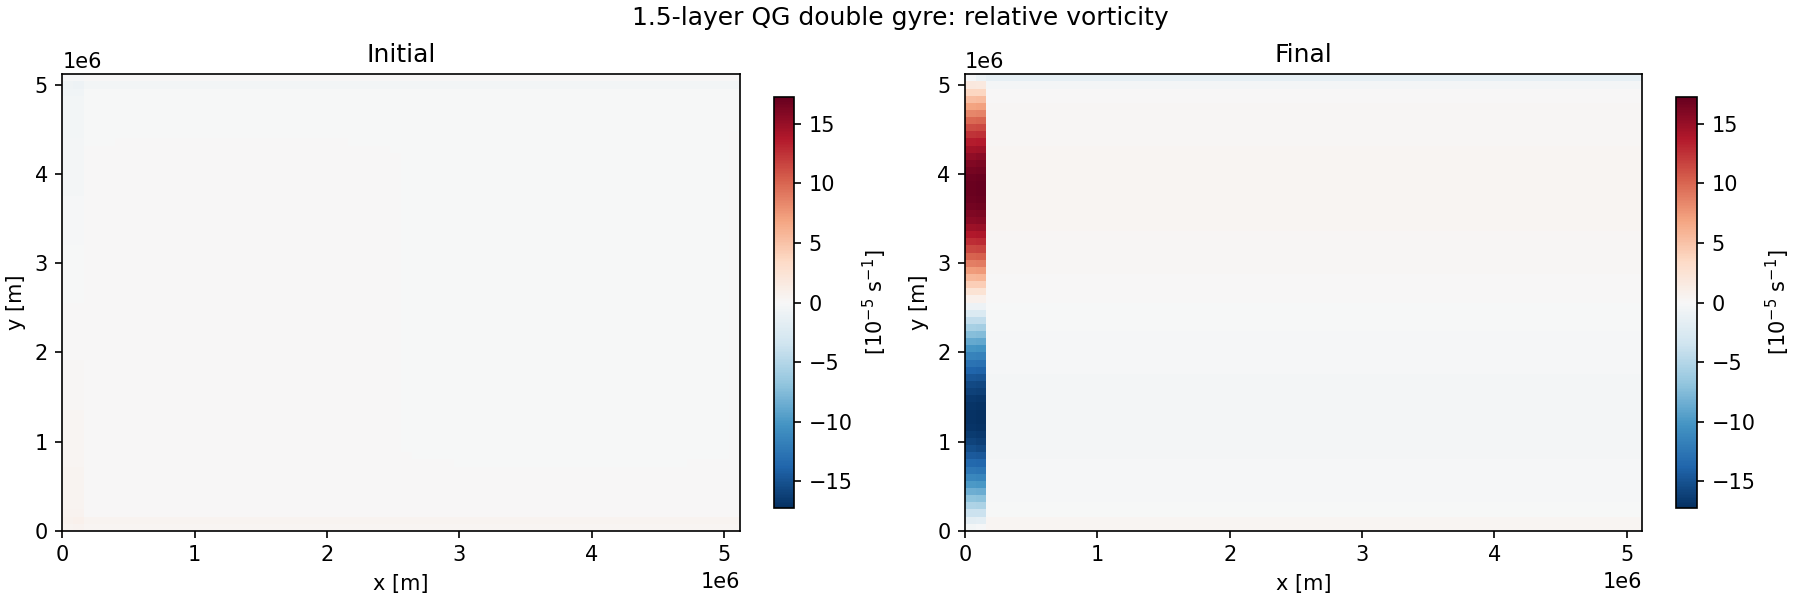
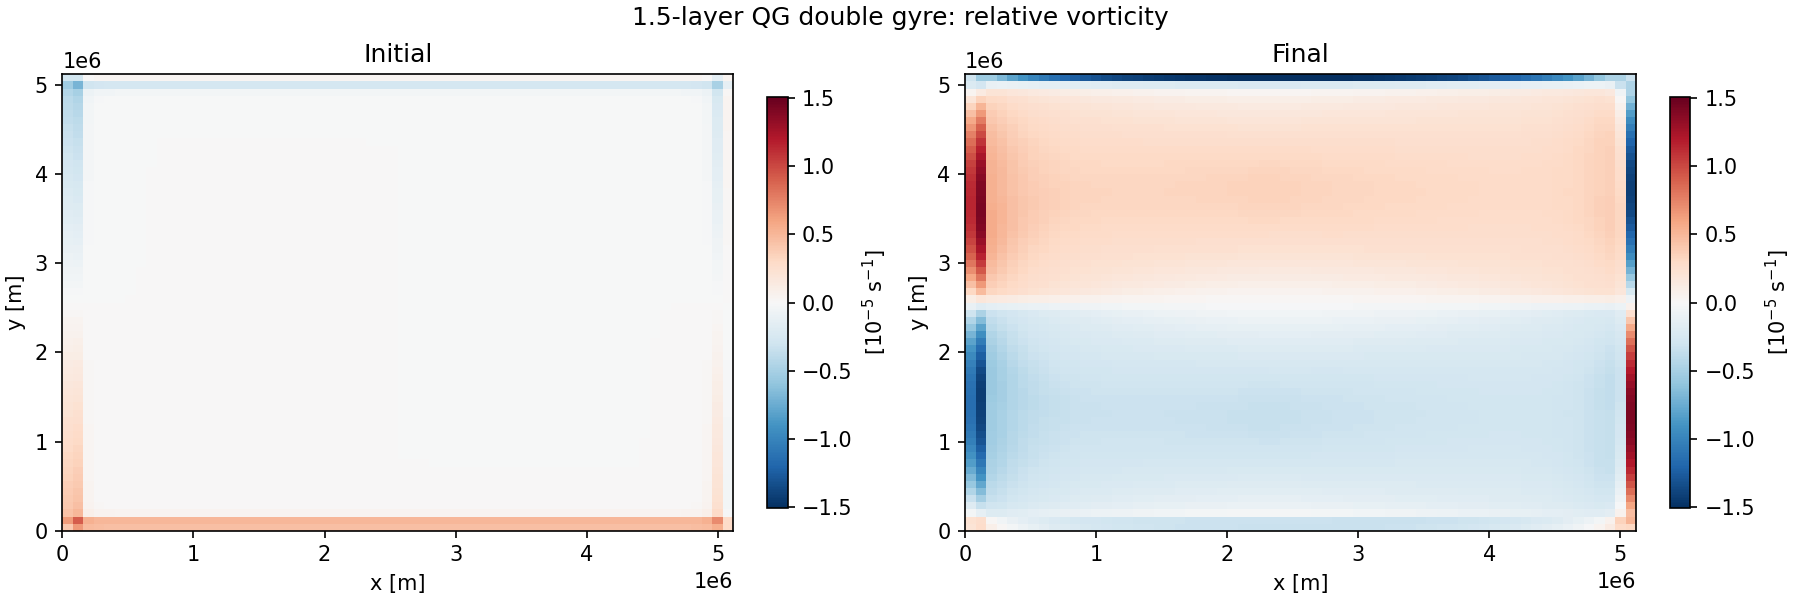
fix: convert QG example from periodic beta-plane to closed-basin double-gyre
- Replace enforce_periodic / solve_helmholtz_fft with pad_interior /
  solve_helmholtz_dst for wall-compatible Dirichlet BCs (psi=0 on walls)
- Rename to_periodic_field -> to_wall_field with zero ghost-cell padding
- Update module docstring, dataset metadata, and docs/examples.md
- Regenerate docs/images/qg_1p5_layer_double_gyre.png with closed-basin run
- Add test_qg_wall_field_produces_zero_ghost_cells unit test
- Update existing QG tests to use zero-padded psi and check metadata

diff --git a/scripts/qg_1p5_layer.py b/scripts/qg_1p5_layer.py
@@ -1,12 +1,14 @@
 from __future__ import annotations
 
-"""Wind-driven 1.5-layer quasi-geostrophic double-gyre example.
+"""Wind-driven 1.5-layer quasi-geostrophic closed-basin double-gyre example.
 
 This example shows how to combine the current :mod:`finitevolx` advection,
 interpolation, and spectral elliptic solvers to build a compact 1.5-layer QG
-model. The potential-vorticity field is advected on a periodic beta-plane, the
-streamfunction is recovered from a Helmholtz inversion, and the output is saved
-through ``xarray``/Zarr together with a static before/after figure.
+model. The potential-vorticity field is advected in a closed rectangular basin
+with no-normal-flow solid walls, the streamfunction is recovered from a
+Helmholtz inversion with homogeneous Dirichlet (ψ = 0) wall boundary
+conditions using ``solve_helmholtz_dst``, and the output is saved through
+``xarray``/Zarr together with a static before/after figure.
 
 The model evolves the QG potential-vorticity anomaly ``q`` according to
 
@@ -14,7 +16,8 @@ The model evolves the QG potential-vorticity anomaly ``q`` according to
 - (∇² - 1 / Ld²) ψ = q - β (y - Ly / 2)
 - u = -∂ψ/∂y,  v = ∂ψ/∂x
 
-where ``F`` is a prescribed double-gyre wind-curl forcing.
+where ``F`` is a prescribed double-gyre wind-curl forcing and ψ = 0 on all
+four basin walls (solid no-normal-flow boundary conditions).
 
 Examples
 --------
@@ -47,17 +50,29 @@ from finitevolx import (
     Difference2D,
     Interpolation2D,
     Vorticity2D,
-    enforce_periodic,
-    solve_helmholtz_fft,
+    pad_interior,
+    solve_helmholtz_dst,
 )
 
 jax.config.update("jax_enable_x64", True)
 
 
-def to_periodic_field(field: xr.DataArray) -> Array:
-    """Pad an interior ``xarray`` field with a periodic ghost-cell ring."""
+def to_wall_field(field: xr.DataArray) -> Array:
+    """Pad an interior ``xarray`` field with zero (no-normal-flow wall) ghost cells.
+
+    Parameters
+    ----------
+    field : xr.DataArray
+        Interior field with shape ``[Ny, Nx]``.
+
+    Returns
+    -------
+    Array
+        Full field of shape ``[Ny+2, Nx+2]`` with interior values preserved and
+        ghost cells set to zero (homogeneous Dirichlet wall boundary condition).
+    """
     interior = jnp.asarray(field.to_numpy())
-    return enforce_periodic(jnp.pad(interior, pad_width=1, mode="wrap"))
+    return jnp.pad(interior, pad_width=1, mode="constant")
 
 
 def geostrophic_velocity_from_streamfunction(
@@ -259,7 +274,7 @@ def make_preprocessing_dataset(
         attrs={
             "model": "1.5-layer quasi-geostrophic",
             "configuration": "double gyre",
-            "boundary_conditions": "periodic in x and y",
+            "boundary_conditions": "closed basin (no-normal-flow solid walls)",
         },
     )
 
@@ -295,9 +310,9 @@ def run_simulation(config: QuasiGeostrophicConfig | None = None) -> xr.Dataset: 
     vort = Vorticity2D(grid=grid)
     forcing = make_preprocessing_dataset(config, grid)
 
-    q = to_periodic_field(forcing["q0"])
+    q = to_wall_field(forcing["q0"])
     beta_term = jnp.asarray(forcing["beta_term"].to_numpy())
-    wind_curl = to_periodic_field(forcing["wind_curl"])
+    wind_curl = to_wall_field(forcing["wind_curl"])
 
     viscosity = config.viscosity
     drag = config.drag
@@ -305,17 +320,31 @@ def run_simulation(config: QuasiGeostrophicConfig | None = None) -> xr.Dataset: 
     deformation_wavenumber = 1.0 / config.rossby_radius**2
 
     def invert_streamfunction(q_field: Array) -> Array:
-        """Recover the streamfunction from the PV anomaly using Helmholtz FFT."""
+        """Recover the streamfunction from the PV anomaly using Helmholtz DST.
+
+        Uses homogeneous Dirichlet BCs (ψ = 0 on all four walls), which is
+        the appropriate condition for a closed rectangular basin.
+
+        Parameters
+        ----------
+        q_field : Array
+            PV anomaly on the full ``[Ny+2, Nx+2]`` grid (ghost ring included).
+
+        Returns
+        -------
+        Array
+            Streamfunction on the full grid with zero ghost cells (ψ = 0 walls).
+        """
         rhs = q_field[1:-1, 1:-1] - beta_term
-        psi_interior = solve_helmholtz_fft(
+        psi_interior = solve_helmholtz_dst(
             rhs,
             grid.dx,
             grid.dy,
             lambda_=deformation_wavenumber,
         )
         psi_field = jnp.zeros_like(q_field)
-        psi_field = psi_field.at[1:-1, 1:-1].set(psi_interior)
-        return enforce_periodic(psi_field)
+        # Ghost cells remain zero, encoding ψ = 0 on the solid walls.
+        return psi_field.at[1:-1, 1:-1].set(psi_interior)
 
     def tendency(q_field: Array) -> tuple[Array, Array, Array, Array]:
         """Compute the QG PV tendency and the diagnosed balanced state."""
@@ -331,9 +360,9 @@ def run_simulation(config: QuasiGeostrophicConfig | None = None) -> xr.Dataset: 
     def step(q_field: Array) -> tuple[Array, Array, Array, Array]:
         """Advance one Heun step and diagnose the balanced velocity field."""
         k1_q, _, _, _ = tendency(q_field)
-        q_stage = enforce_periodic(q_field + dt * k1_q)
+        q_stage = pad_interior(q_field + dt * k1_q, mode="constant")
         k2_q, _, _, _ = tendency(q_stage)
-        q_next = enforce_periodic(q_field + 0.5 * dt * (k1_q + k2_q))
+        q_next = pad_interior(q_field + 0.5 * dt * (k1_q + k2_q), mode="constant")
         psi_next = invert_streamfunction(q_next)
         u_next, v_next = geostrophic_velocity_from_streamfunction(
             psi_next, diff, interp
@@ -450,7 +479,7 @@ def run_simulation(config: QuasiGeostrophicConfig | None = None) -> xr.Dataset: 
             "configuration": "double gyre",
             "time_step_seconds": config.dt,
             "num_steps": config.steps,
-            "notes": "Finitevolx advection plus FFT Helmholtz inversion with xarray output.",
+            "notes": "Finitevolx advection plus DST Helmholtz inversion with closed-basin (Dirichlet) wall BCs and xarray output.",
         },
     )
 

diff --git a/tests/test_scripts.py b/tests/test_scripts.py
@@ -8,7 +8,7 @@ import jax.numpy as jnp
 import numpy as np
 import pytest
 
-from finitevolx import ArakawaCGrid2D, Difference2D, Interpolation2D, enforce_periodic
+from finitevolx import ArakawaCGrid2D, Difference2D, Interpolation2D
 
 xr = pytest.importorskip("xarray")
 pytest.importorskip("zarr")
@@ -157,6 +157,14 @@ def test_qg_script_runs_stably(tmp_path: Path) -> None:
     # steady double-gyre forcing, so the relative-vorticity variability should
     # increase during the short smoke-test integration.
     assert np.std(relative_vorticity[-1]) > np.std(relative_vorticity[0])
+    # The example must report closed-basin (not periodic) boundary conditions.
+    notes = dataset.attrs.get("notes", "")
+    assert "closed" in notes.lower(), (
+        f"Expected 'closed' in dataset notes, got: {notes!r}"
+    )
+    assert "periodic" not in notes.lower(), (
+        f"Found 'periodic' in dataset notes: {notes!r}"
+    )
 
 
 def test_qg_geostrophic_velocity_helper_is_nearly_nondivergent() -> None:
@@ -173,9 +181,8 @@ def test_qg_geostrophic_velocity_helper_is_nearly_nondivergent() -> None:
     psi_interior = np.sin(2.0 * np.pi * x2d / config.Lx) * np.sin(
         2.0 * np.pi * y2d / config.Ly
     )
-    psi_field = enforce_periodic(
-        jnp.pad(jnp.asarray(psi_interior), pad_width=1, mode="wrap")
-    )
+    # Use zero (Dirichlet wall) ghost cells, matching the closed-basin setup.
+    psi_field = jnp.pad(jnp.asarray(psi_interior), pad_width=1, mode="constant")
 
     u_field, v_field = module.geostrophic_velocity_from_streamfunction(
         psi_field, diff, interp
@@ -183,3 +190,27 @@ def test_qg_geostrophic_velocity_helper_is_nearly_nondivergent() -> None:
     divergence = diff.divergence(u_field, v_field)
 
     np.testing.assert_allclose(divergence[1:-1, 1:-1], 0.0, atol=1e-12)
+
+
+def test_qg_wall_field_produces_zero_ghost_cells() -> None:
+    """Verify that to_wall_field produces zero ghost cells (closed-basin Dirichlet BCs)."""
+    module = load_script_module("qg_wall_module", "qg_1p5_layer.py")
+    interior = np.ones((16, 16))
+    da = xr.DataArray(interior, dims=("y", "x"))
+    padded = np.asarray(module.to_wall_field(da))
+
+    # All four ghost rows/columns must be exactly zero.
+    np.testing.assert_array_equal(
+        padded[0, :], 0.0, err_msg="south ghost row is not zero"
+    )
+    np.testing.assert_array_equal(
+        padded[-1, :], 0.0, err_msg="north ghost row is not zero"
+    )
+    np.testing.assert_array_equal(
+        padded[:, 0], 0.0, err_msg="west ghost col is not zero"
+    )
+    np.testing.assert_array_equal(
+        padded[:, -1], 0.0, err_msg="east ghost col is not zero"
+    )
+    # Interior values must be preserved unchanged.
+    np.testing.assert_array_equal(padded[1:-1, 1:-1], interior)

diff --git a/docs/examples.md b/docs/examples.md
@@ -54,9 +54,9 @@ Script: `scripts/shallow_water.py`
 
 Script: `scripts/qg_1p5_layer.py`
 
-- Periodic beta-plane, double-gyre wind-curl forcing
+- Closed-basin Atlantic-style double-gyre (no-normal-flow solid walls, ψ = 0)
 - Potential-vorticity advection with `Advection2D`
-- Streamfunction inversion through `solve_helmholtz_fft`
+- Streamfunction inversion through `solve_helmholtz_dst` (homogeneous Dirichlet BCs)
 - Basin-scale defaults tuned toward the MQGeometry double-gyre benchmark (`Lx = Ly = 5120 km`, `f0 = 9.375e-5 s^-1`, `beta = 1.754e-11 m^-1 s^-1`)
 - Saved figure shows **relative vorticity** rather than streamfunction so the eddy field matches the expected diagnostic
 - Zarr output fields: `q`, `psi`, `u`, `v`, `speed`, `relative_vorticity`, `pv_enstrophy`
